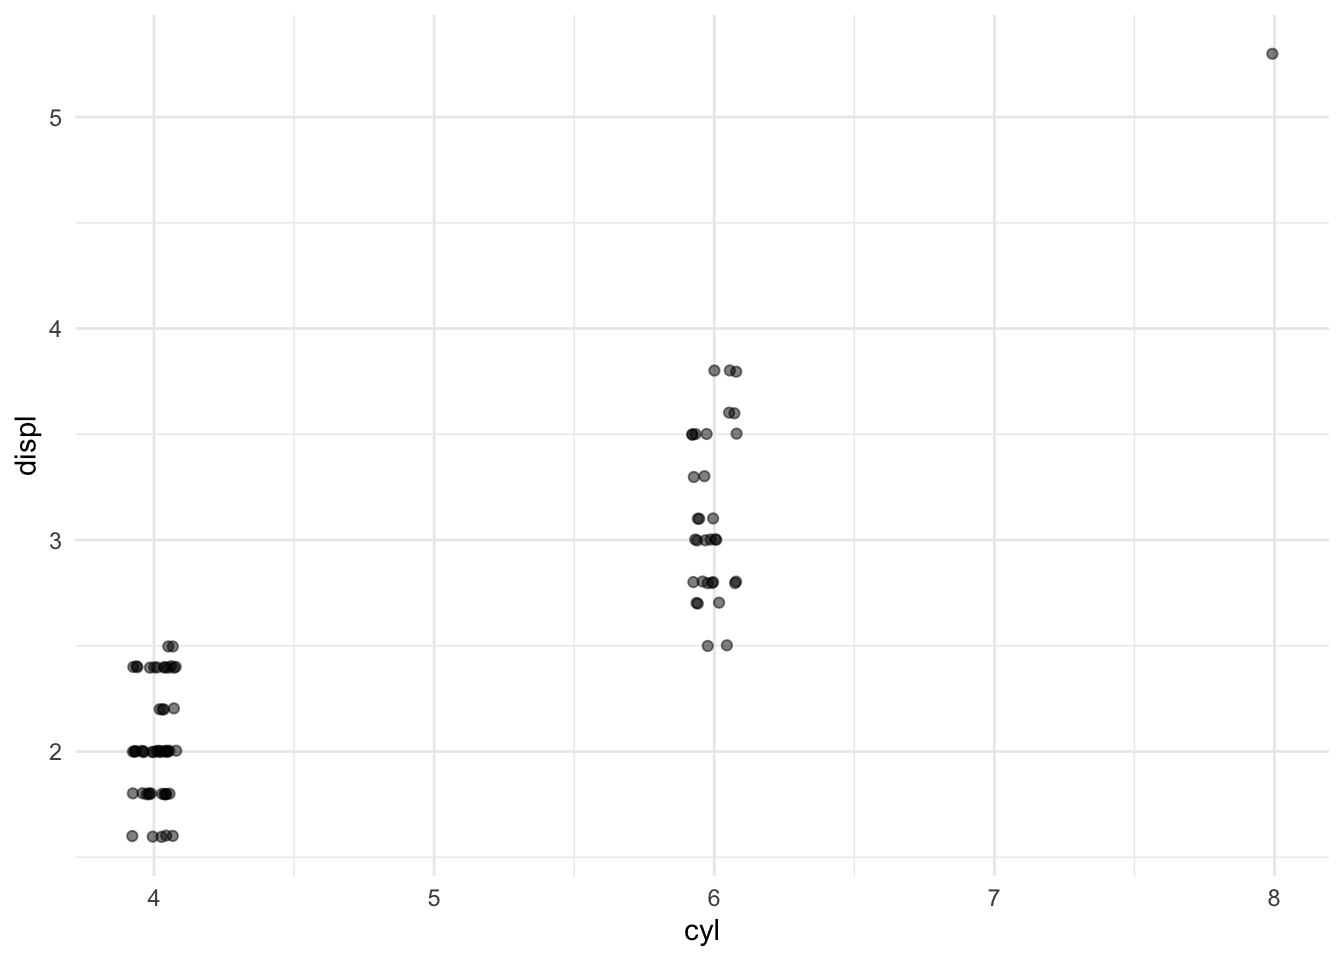
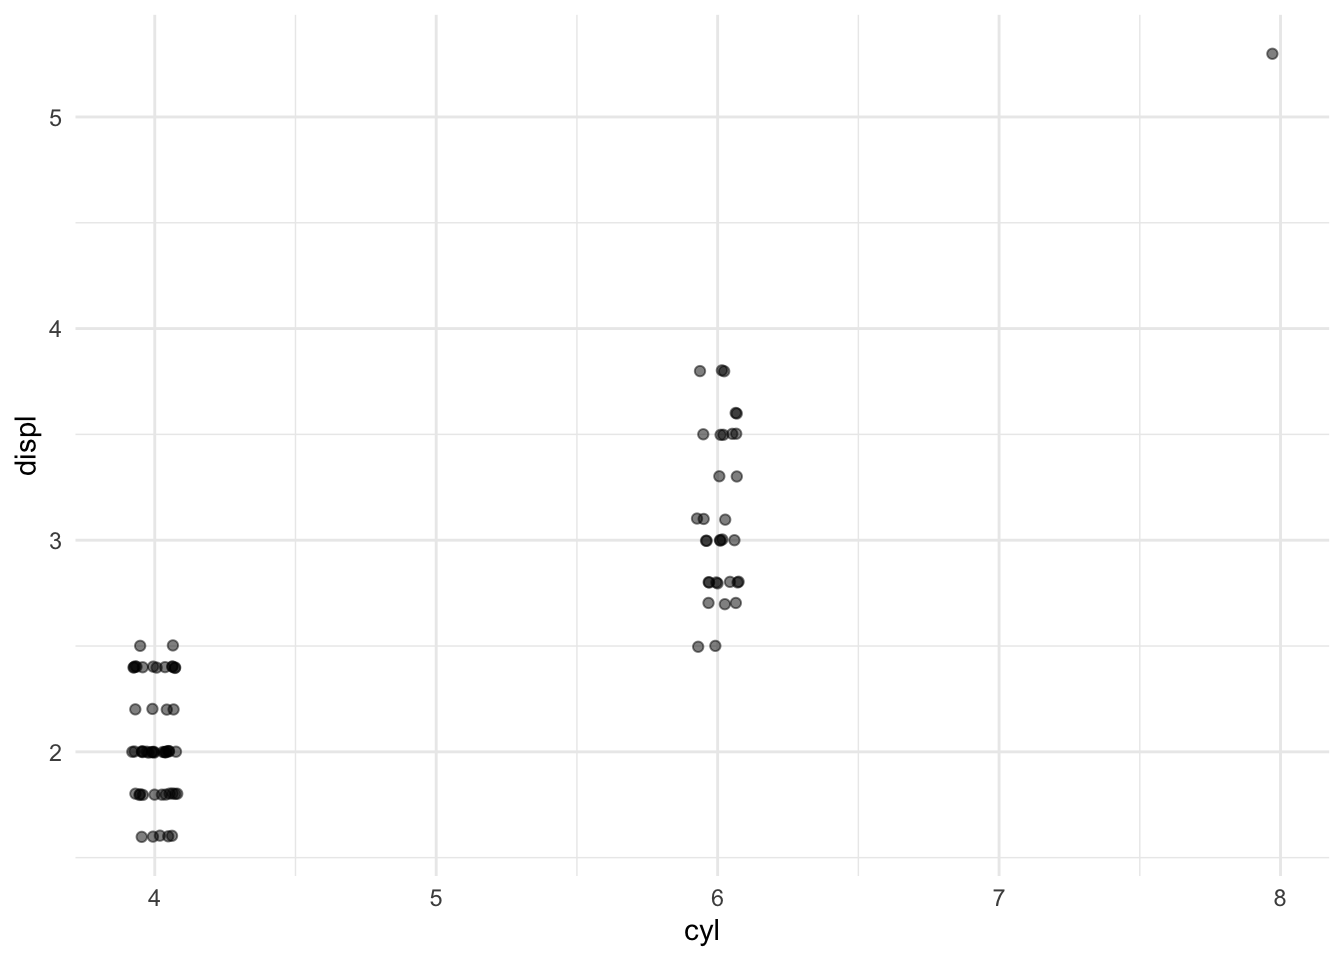
Rename "Miles per gallon" to "MPG ~ Manufacturer analysis" and regenerate docs (updated HTML, sample table rows, figure, search index, and timestamps)

diff --git a/docs/posts/miles_per_gallon/index.html b/docs/posts/miles_per_gallon/index.html
@@ -9,7 +9,7 @@
 <meta name="author" content="Prateek">
 <meta name="dcterms.date" content="2025-11-23">
 
-<title>Miles per gallon – Blog</title>
+<title>MPG ~ Manufacturer analysis – Blog</title>
 <style>
 code{white-space: pre-wrap;}
 span.smallcaps{font-variant: small-caps;}
@@ -134,7 +134,7 @@ div.csl-indent {
 <header id="title-block-header" class="quarto-title-block default page-columns page-full">
   <div class="quarto-title-banner page-columns page-full">
     <div class="quarto-title column-body">
-      <h1 class="title">Miles per gallon</h1>
+      <h1 class="title">MPG ~ Manufacturer analysis</h1>
                                 <div class="quarto-categories">
                 <div class="quarto-category">random effects</div>
                 <div class="quarto-category">hierarchical models</div>
@@ -238,19 +238,96 @@ div.csl-indent {
 </thead>
 <tbody>
 <tr class="odd">
-<td style="text-align: left;">honda</td>
-<td style="text-align: left;">civic</td>
-<td style="text-align: right;">1.6</td>
+<td style="text-align: left;">hyundai</td>
+<td style="text-align: left;">sonata</td>
+<td style="text-align: right;">2.4</td>
 <td style="text-align: left;">1999</td>
 <td style="text-align: right;">4</td>
-<td style="text-align: right;">25</td>
+<td style="text-align: right;">18</td>
+<td style="text-align: left;">r</td>
+<td style="text-align: left;">midsize</td>
+<td style="text-align: left;">manual</td>
+</tr>
+<tr class="even">
+<td style="text-align: left;">toyota</td>
+<td style="text-align: left;">camry solara</td>
+<td style="text-align: right;">2.2</td>
+<td style="text-align: left;">1999</td>
+<td style="text-align: right;">4</td>
+<td style="text-align: right;">21</td>
+<td style="text-align: left;">r</td>
+<td style="text-align: left;">compact</td>
+<td style="text-align: left;">manual</td>
+</tr>
+<tr class="odd">
+<td style="text-align: left;">toyota</td>
+<td style="text-align: left;">corolla</td>
+<td style="text-align: right;">1.8</td>
+<td style="text-align: left;">1999</td>
+<td style="text-align: right;">4</td>
+<td style="text-align: right;">26</td>
+<td style="text-align: left;">r</td>
+<td style="text-align: left;">compact</td>
+<td style="text-align: left;">manual</td>
+</tr>
+<tr class="even">
+<td style="text-align: left;">volkswagen</td>
+<td style="text-align: left;">gti</td>
+<td style="text-align: right;">2.8</td>
+<td style="text-align: left;">1999</td>
+<td style="text-align: right;">6</td>
+<td style="text-align: right;">17</td>
+<td style="text-align: left;">r</td>
+<td style="text-align: left;">compact</td>
+<td style="text-align: left;">manual</td>
+</tr>
+<tr class="odd">
+<td style="text-align: left;">audi</td>
+<td style="text-align: left;">a4</td>
+<td style="text-align: right;">2.8</td>
+<td style="text-align: left;">1999</td>
+<td style="text-align: right;">6</td>
+<td style="text-align: right;">16</td>
+<td style="text-align: left;">p</td>
+<td style="text-align: left;">compact</td>
+<td style="text-align: left;">auto</td>
+</tr>
+<tr class="even">
+<td style="text-align: left;">honda</td>
+<td style="text-align: left;">civic</td>
+<td style="text-align: right;">1.8</td>
+<td style="text-align: left;">2008</td>
+<td style="text-align: right;">4</td>
+<td style="text-align: right;">26</td>
 <td style="text-align: left;">r</td>
 <td style="text-align: left;">subcompact</td>
 <td style="text-align: left;">manual</td>
 </tr>
+<tr class="odd">
+<td style="text-align: left;">volkswagen</td>
+<td style="text-align: left;">passat</td>
+<td style="text-align: right;">1.8</td>
+<td style="text-align: left;">1999</td>
+<td style="text-align: right;">4</td>
+<td style="text-align: right;">18</td>
+<td style="text-align: left;">p</td>
+<td style="text-align: left;">midsize</td>
+<td style="text-align: left;">auto</td>
+</tr>
 <tr class="even">
-<td style="text-align: left;">hyundai</td>
-<td style="text-align: left;">sonata</td>
+<td style="text-align: left;">toyota</td>
+<td style="text-align: left;">corolla</td>
+<td style="text-align: right;">1.8</td>
+<td style="text-align: left;">1999</td>
+<td style="text-align: right;">4</td>
+<td style="text-align: right;">24</td>
+<td style="text-align: left;">r</td>
+<td style="text-align: left;">compact</td>
+<td style="text-align: left;">auto</td>
+</tr>
+<tr class="odd">
+<td style="text-align: left;">toyota</td>
+<td style="text-align: left;">camry</td>
 <td style="text-align: right;">2.4</td>
 <td style="text-align: left;">2008</td>
 <td style="text-align: right;">4</td>
@@ -259,29 +336,7 @@ div.csl-indent {
 <td style="text-align: left;">midsize</td>
 <td style="text-align: left;">auto</td>
 </tr>
-<tr class="odd">
-<td style="text-align: left;">hyundai</td>
-<td style="text-align: left;">tiburon</td>
-<td style="text-align: right;">2.7</td>
-<td style="text-align: left;">2008</td>
-<td style="text-align: right;">6</td>
-<td style="text-align: right;">17</td>
-<td style="text-align: left;">r</td>
-<td style="text-align: left;">subcompact</td>
-<td style="text-align: left;">manual</td>
-</tr>
 <tr class="even">
-<td style="text-align: left;">nissan</td>
-<td style="text-align: left;">altima</td>
-<td style="text-align: right;">3.5</td>
-<td style="text-align: left;">2008</td>
-<td style="text-align: right;">6</td>
-<td style="text-align: right;">19</td>
-<td style="text-align: left;">p</td>
-<td style="text-align: left;">midsize</td>
-<td style="text-align: left;">manual</td>
-</tr>
-<tr class="odd">
 <td style="text-align: left;">toyota</td>
 <td style="text-align: left;">camry solara</td>
 <td style="text-align: right;">3.0</td>
@@ -290,61 +345,6 @@ div.csl-indent {
 <td style="text-align: right;">18</td>
 <td style="text-align: left;">r</td>
 <td style="text-align: left;">compact</td>
-<td style="text-align: left;">auto</td>
-</tr>
-<tr class="even">
-<td style="text-align: left;">toyota</td>
-<td style="text-align: left;">camry solara</td>
-<td style="text-align: right;">2.4</td>
-<td style="text-align: left;">2008</td>
-<td style="text-align: right;">4</td>
-<td style="text-align: right;">22</td>
-<td style="text-align: left;">r</td>
-<td style="text-align: left;">compact</td>
-<td style="text-align: left;">auto</td>
-</tr>
-<tr class="odd">
-<td style="text-align: left;">nissan</td>
-<td style="text-align: left;">altima</td>
-<td style="text-align: right;">2.5</td>
-<td style="text-align: left;">2008</td>
-<td style="text-align: right;">4</td>
-<td style="text-align: right;">23</td>
-<td style="text-align: left;">r</td>
-<td style="text-align: left;">midsize</td>
-<td style="text-align: left;">manual</td>
-</tr>
-<tr class="even">
-<td style="text-align: left;">chevrolet</td>
-<td style="text-align: left;">malibu</td>
-<td style="text-align: right;">2.4</td>
-<td style="text-align: left;">1999</td>
-<td style="text-align: right;">4</td>
-<td style="text-align: right;">19</td>
-<td style="text-align: left;">r</td>
-<td style="text-align: left;">midsize</td>
-<td style="text-align: left;">auto</td>
-</tr>
-<tr class="odd">
-<td style="text-align: left;">hyundai</td>
-<td style="text-align: left;">sonata</td>
-<td style="text-align: right;">3.3</td>
-<td style="text-align: left;">2008</td>
-<td style="text-align: right;">6</td>
-<td style="text-align: right;">19</td>
-<td style="text-align: left;">r</td>
-<td style="text-align: left;">midsize</td>
-<td style="text-align: left;">auto</td>
-</tr>
-<tr class="even">
-<td style="text-align: left;">pontiac</td>
-<td style="text-align: left;">grand prix</td>
-<td style="text-align: right;">3.8</td>
-<td style="text-align: left;">2008</td>
-<td style="text-align: right;">6</td>
-<td style="text-align: right;">18</td>
-<td style="text-align: left;">r</td>
-<td style="text-align: left;">midsize</td>
 <td style="text-align: left;">auto</td>
 </tr>
 </tbody>
@@ -749,8 +749,7 @@ RLRT = 13.167, p-value &lt; 2.2e-16</code></pre>
 </div>
 <div class="cell-output cell-output-stderr">
 <pre><code>
-105 message(s): boundary (singular) fit: see help('isSingular')
-1 warning(s): Model failed to converge with max|grad| = 0.0036062 (tol = 0.002, component 1)</code></pre>
+109 message(s): boundary (singular) fit: see help('isSingular')</code></pre>
 </div>
 <div class="cell-output-display">
 <table class="caption-top table table-sm table-striped small">
@@ -764,33 +763,33 @@ RLRT = 13.167, p-value &lt; 2.2e-16</code></pre>
 <tbody>
 <tr class="odd">
 <td style="text-align: left;">.sig01</td>
-<td style="text-align: right;">0.0057855</td>
-<td style="text-align: right;">0.0733163</td>
+<td style="text-align: right;">0.0066545</td>
+<td style="text-align: right;">0.0733425</td>
 </tr>
 <tr class="even">
 <td style="text-align: left;">.sig02</td>
 <td style="text-align: right;">0.0000000</td>
-<td style="text-align: right;">0.1040288</td>
+<td style="text-align: right;">0.1068947</td>
 </tr>
 <tr class="odd">
 <td style="text-align: left;">.sigma</td>
-<td style="text-align: right;">0.0448014</td>
-<td style="text-align: right;">0.0626391</td>
+<td style="text-align: right;">0.0439330</td>
+<td style="text-align: right;">0.0624053</td>
 </tr>
 <tr class="even">
 <td style="text-align: left;">(Intercept)</td>
-<td style="text-align: right;">3.2504237</td>
-<td style="text-align: right;">3.4155443</td>
+<td style="text-align: right;">3.2499073</td>
+<td style="text-align: right;">3.4184367</td>
 </tr>
 <tr class="odd">
 <td style="text-align: left;">displ</td>
-<td style="text-align: right;">-0.1758906</td>
-<td style="text-align: right;">-0.1248191</td>
+<td style="text-align: right;">-0.1765422</td>
+<td style="text-align: right;">-0.1241745</td>
 </tr>
 <tr class="even">
 <td style="text-align: left;">year2008</td>
-<td style="text-align: right;">0.0584266</td>
-<td style="text-align: right;">0.1074370</td>
+<td style="text-align: right;">0.0583465</td>
+<td style="text-align: right;">0.1080074</td>
 </tr>
 </tbody>
 </table>

diff --git a/docs/index.html b/docs/index.html
@@ -244,7 +244,7 @@ Prateek
 </a>
 </div>
 </div>
-<div class="quarto-post image-right" data-index="1" data-categories="cmFuZG9tJTIwZWZmZWN0cyUyQ2hpZXJhcmNoaWNhbCUyMG1vZGVscw==" data-listing-date-sort="1763856000000" data-listing-file-modified-sort="1767946600754" data-listing-date-modified-sort="NaN" data-listing-reading-time-sort="10" data-listing-word-count-sort="1912">
+<div class="quarto-post image-right" data-index="1" data-categories="cmFuZG9tJTIwZWZmZWN0cyUyQ2hpZXJhcmNoaWNhbCUyMG1vZGVscw==" data-listing-date-sort="1763856000000" data-listing-file-modified-sort="1767947443732" data-listing-date-modified-sort="NaN" data-listing-reading-time-sort="10" data-listing-word-count-sort="1912">
 <div class="thumbnail"><a href="./posts/miles_per_gallon/index.html" class="no-external">
 
 <img loading="lazy" src="./posts/miles_per_gallon/mpg.jpg" class="thumbnail-image">
@@ -252,7 +252,7 @@ Prateek
 </a></div>
 <div class="body">
 <h3 class="no-anchor listing-title">
-<a href="./posts/miles_per_gallon/index.html" class="no-external">Miles per gallon</a>
+<a href="./posts/miles_per_gallon/index.html" class="no-external">MPG ~ Manufacturer analysis</a>
 </h3>
 <div class="listing-categories">
 
